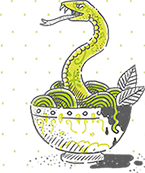
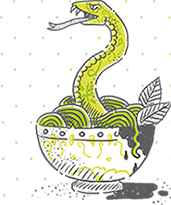
ajuste index, footer y header a 300px

diff --git a/css/style.css b/css/style.css
@@ -14,8 +14,8 @@ a {
 }
 
 header {
-  padding-top: 28rem;
-  background: url("../img/header.jpg") #000000;
+  padding-top: 18rem;
+  background: url("../img/header-XS.jpg") #000000;
   background-position: top center;
   grid-area: header;
 }
@@ -57,6 +57,20 @@ header nav ul .vivo a img:hover {
   transform: scale(1.1);
 }
 
+@media (min-width: 500px) {
+  header {
+    padding-top: 22rem;
+    background: url("../img/header-S.jpg") #000000;
+    background-position: top center;
+  }
+}
+@media (min-width: 768px) {
+  header {
+    padding-top: 28rem;
+    background: url("../img/header.jpg") #000000;
+    background-position: top center;
+  }
+}
 @media (min-width: 1024px) {
   header nav ul {
     flex-direction: row;
@@ -73,7 +87,7 @@ header nav ul .vivo a img:hover {
 }
 @media (min-width: 300px) {
   .grilla-index main {
-    padding: 7rem 5rem 0rem 5rem;
+    padding: 7rem 1rem 0rem 1rem;
   }
   .grilla-index {
     display: grid;
@@ -100,7 +114,7 @@ header nav ul .vivo a img:hover {
   .grilla-index main .main-index__grilla .titulo-index h1 {
     color: white;
     font-family: "Roboto", sans-serif;
-    font-size: 4.2rem;
+    font-size: 3rem;
     font-weight: 400;
     margin-bottom: 2rem;
     text-shadow: 4px 4px 5px rgba(0, 0, 0, 0.6);
@@ -109,16 +123,16 @@ header nav ul .vivo a img:hover {
     grid-area: sinopsis;
     display: flex;
     flex-direction: column;
-    align-items: flex-start;
+    align-items: central;
     justify-content: center;
-    width: 20rem;
+    width: 22rem;
   }
   .grilla-index main .main-index__grilla .sinopsis img {
     height: 6.5rem;
   }
   .grilla-index main .main-index__grilla .sinopsis p {
     font-family: "Roboto", sans-serif;
-    font-size: 1.7rem;
+    font-size: 1.2rem;
     font-weight: 600;
     text-align: justify;
     color: #3d3d3d;
@@ -134,16 +148,16 @@ header nav ul .vivo a img:hover {
   .grilla-index main .main-index__grilla .demo {
     display: flex;
     flex-direction: column;
-    align-items: flex-start;
+    align-items: center;
     padding-top: 4rem;
   }
   .grilla-index main .main-index__grilla .demo img {
     height: 6.5rem;
   }
   .grilla-index main .main-index__grilla .demo iframe {
-    padding-top: 1rem;
-    width: 25rem;
-    height: 10rem;
+    padding-top: 2rem;
+    width: 28rem;
+    height: 13rem;
   }
   .grilla-index main .main-index__grilla .fotoPose {
     padding-top: 4rem;
@@ -153,8 +167,29 @@ header nav ul .vivo a img:hover {
   }
 }
 @media (min-width: 500px) {
+  .grilla-index main {
+    padding: 7rem 5rem 0rem 5rem;
+  }
+  .grilla-index main .main-index__grilla .titulo-index h1 {
+    color: white;
+    font-family: "Roboto", sans-serif;
+    font-size: 4.2rem;
+    font-weight: 400;
+    margin-bottom: 2rem;
+    text-shadow: 4px 4px 5px rgba(0, 0, 0, 0.6);
+  }
   .grilla-index main .main-index__grilla .sinopsis {
+    align-items: flex-start;
     width: 40rem;
+  }
+  .grilla-index main .main-index__grilla .sinopsis p {
+    font-family: "Roboto", sans-serif;
+    font-size: 1.7rem;
+    font-weight: 600;
+    text-align: justify;
+  }
+  .grilla-index main .main-index__grilla .demo {
+    align-items: flex-start;
   }
   .grilla-index main .main-index__grilla .demo iframe {
     width: 40rem;
@@ -323,10 +358,9 @@ header nav ul .vivo a img:hover {
   .grilla-quienesSomos main .mainQuienesSomos__grilla .integrantes .integrantes-grilla .datos p {
     color: #3d3d3d;
     font-family: "Roboto", sans-serif;
-    font-size: 1.7rem;
+    font-size: 1.4rem;
     font-weight: 600;
     text-align: justify;
-    font-size: 1.4rem;
   }
   .grilla-quienesSomos main .mainQuienesSomos__grilla .integrantes .integrantes-grilla .datosNati {
     grid-area: datosNati;
@@ -678,8 +712,8 @@ header nav ul .vivo a img:hover {
     padding: 0.8rem 0rem 0.8rem 0rem;
   }
   footer img {
-    height: 4rem;
-    padding: 2rem;
+    height: 3.5rem;
+    padding: 1rem;
   }
   footer div {
     display: flex;
@@ -690,7 +724,7 @@ header nav ul .vivo a img:hover {
   footer div h3 {
     color: #cbdd74;
     font-family: "Open Sans", sans-serif;
-    font-size: 1.4rem;
+    font-size: 1.1rem;
     margin: 0;
   }
   footer div div {
@@ -699,7 +733,7 @@ header nav ul .vivo a img:hover {
     justify-content: center;
   }
   footer div div a img {
-    height: 3.5rem;
+    height: 3rem;
     padding: 1rem;
     transition: all 0.5s;
   }

diff --git a/sass/_index.scss b/sass/_index.scss
@@ -1,6 +1,6 @@
 @media(min-width: 300px){
     %mainpad{
-        padding: 7rem 5rem 0rem 5rem;
+        padding: 7rem 1rem 0rem 1rem;
     }
     .grilla-index{
         display: grid;
@@ -29,21 +29,21 @@
                 .titulo-index{
                     grid-area: titulo;
                     h1{
-                        @include titulo(white);
+                        @include titulos(white, 3rem);
                     }
                 }
                 .sinopsis{
                     grid-area: sinopsis;
                     display: flex;
                     flex-direction: column;
-                    align-items: flex-start;
+                    align-items: central;
                     justify-content: center;
-                    width: 20rem;
+                    width: 22rem;
                     img{
                         height: 6.5rem;
                     }
                     p{
-                        @include texto;
+                        @include parrafo(1.2rem);
                         color: $pColor;
                         padding-top: 2rem;
                         text-align: justify;
@@ -58,15 +58,15 @@
                 .demo{
                     display: flex;
                     flex-direction: column;
-                    align-items: flex-start;
+                    align-items: center;
                     padding-top: 4rem;
                     img{
                         height: 6.5rem;
                     }
                     iframe{
-                        padding-top: 1rem;
-                        width: 25rem; 
-                        height: 10rem;
+                        padding-top: 2rem;
+                        width: 28rem; 
+                        height: 13rem;
                     }
                 }
                 .fotoPose{
@@ -83,11 +83,22 @@
 @media(min-width: 500px){
     .grilla-index{
         main{
+            padding: 7rem 5rem 0rem 5rem;
             .main-index__grilla{
+                .titulo-index{
+                    h1{
+                        @include titulos(white, 4.2rem)
+                    }
+                }
                 .sinopsis{
+                    align-items: flex-start;
                     width: 40rem;
+                    p{
+                        @include parrafo(1.7rem)
+                    }
                 }
                 .demo{
+                    align-items: flex-start;
                     iframe{
                         width: 40rem; 
                         height: 25rem;

diff --git a/sass/_quienesSomos.scss b/sass/_quienesSomos.scss
@@ -27,11 +27,11 @@
                     flex-direction: column;
                     align-items: center;
                     h1{
-                        @include titulo(white);
+                        @include titulos(white, 4.2rem);
                     }
                     p{
                         color: $pColor;
-                        @include texto;
+                        @include parrafo(1.7rem);
                         padding-top: 1rem;  
                     }
                 }
@@ -108,8 +108,7 @@
                             }
                             p{
                                 color: $pColor;
-                                @include texto;
-                                font-size: 1.4rem;
+                                @include parrafo(1.4rem);
                             }  
                         }
                         .datosNati{

diff --git a/sass/_footer.scss b/sass/_footer.scss
@@ -11,8 +11,8 @@
         grid-area: footer;
         padding: 0.8rem 0rem 0.8rem 0rem;
         img{
-            height: 4rem;
-            padding: 2rem;
+            height: 3.5rem;
+            padding: 1rem;
         }
         div{
             display: flex;
@@ -22,7 +22,7 @@
             h3{
                 color: $navColor;
                 font-family: 'Open Sans', sans-serif;
-                font-size: 1.4rem;
+                font-size: 1.1rem;
                 margin: 0; 
             }
             div{
@@ -31,7 +31,7 @@
                 justify-content: center;
                 a{
                     img{
-                        height: 3.5rem;
+                        height: 3rem;
                         padding: 1rem;
                         transition: all 0.5s;
                         &:hover{

diff --git a/sass/_header.scss b/sass/_header.scss
@@ -1,7 +1,7 @@
 
 header{
-    padding-top: 28rem;
-    background: url('../img/header.jpg') #000000;
+    padding-top: 18rem;
+    background: url('../img/header-XS.jpg') #000000;
     background-position: top center;
     grid-area: header;
     nav{
@@ -42,6 +42,22 @@ header{
                 }
             }
         }
+    }
+}
+
+@media(min-width: 500px){
+    header{
+    padding-top: 22rem;
+    background: url('../img/header-S.jpg') #000000;
+    background-position: top center;
+    }
+}
+
+@media(min-width: 768px){
+    header{
+    padding-top: 28rem;
+    background: url('../img/header.jpg') #000000;
+    background-position: top center;
     }
 }
 

diff --git a/sass/_laMesaDeAlLado.scss b/sass/_laMesaDeAlLado.scss
@@ -26,11 +26,11 @@
                     flex-direction: column;
                     align-items: center;
                     h1{
-                        @include titulo(white);
+                        @include titulos(white, 4.2rem);
                     }
                     p{
                         color: white;
-                        @include texto;
+                        @include parrafo(1.7rem);
                         padding-top: 1rem; 
                     }
                 }

diff --git a/sass/_generales.scss b/sass/_generales.scss
@@ -12,18 +12,19 @@ a{
     text-decoration: none;
 }
 
-@mixin texto {
+@mixin parrafo ($size) {
     font-family: 'Roboto', sans-serif;
-    font-size: 1.7rem;
+    font-size: $size;
     font-weight: 600;
     text-align: justify;
 }
 
-@mixin titulo($color){
+@mixin titulos($color, $size){
     color: $color;
     font-family: 'Roboto', sans-serif;
-    font-size: 4.2rem;
+    font-size: $size;
     font-weight: 400;
     margin-bottom: 2rem;
     text-shadow: 4px 4px 5px rgba(0,0,0,0.6);
 }
+

diff --git a/sass/_contacto.scss b/sass/_contacto.scss
@@ -9,11 +9,11 @@
             flex-direction: column;
             align-items: center;
             color: white;
-            @include texto;
+            @include parrafo(1.7rem);
             .contacto__texto{
                 width: 40rem;
                 h1{
-                    @include titulo(white);
+                    @include titulos(white, 4.2rem);
                 }
             }
         }

diff --git a/sass/_destacados.scss b/sass/_destacados.scss
@@ -9,10 +9,10 @@
         align-items: center;
         .destacados__texto{
             h1{
-                @include titulo(white);
+                @include titulos(white, 4.2rem);
             }
             p{
-                @include texto;
+                @include parrafo(1.7rem);
                 color: $pColor;
             }
         }
